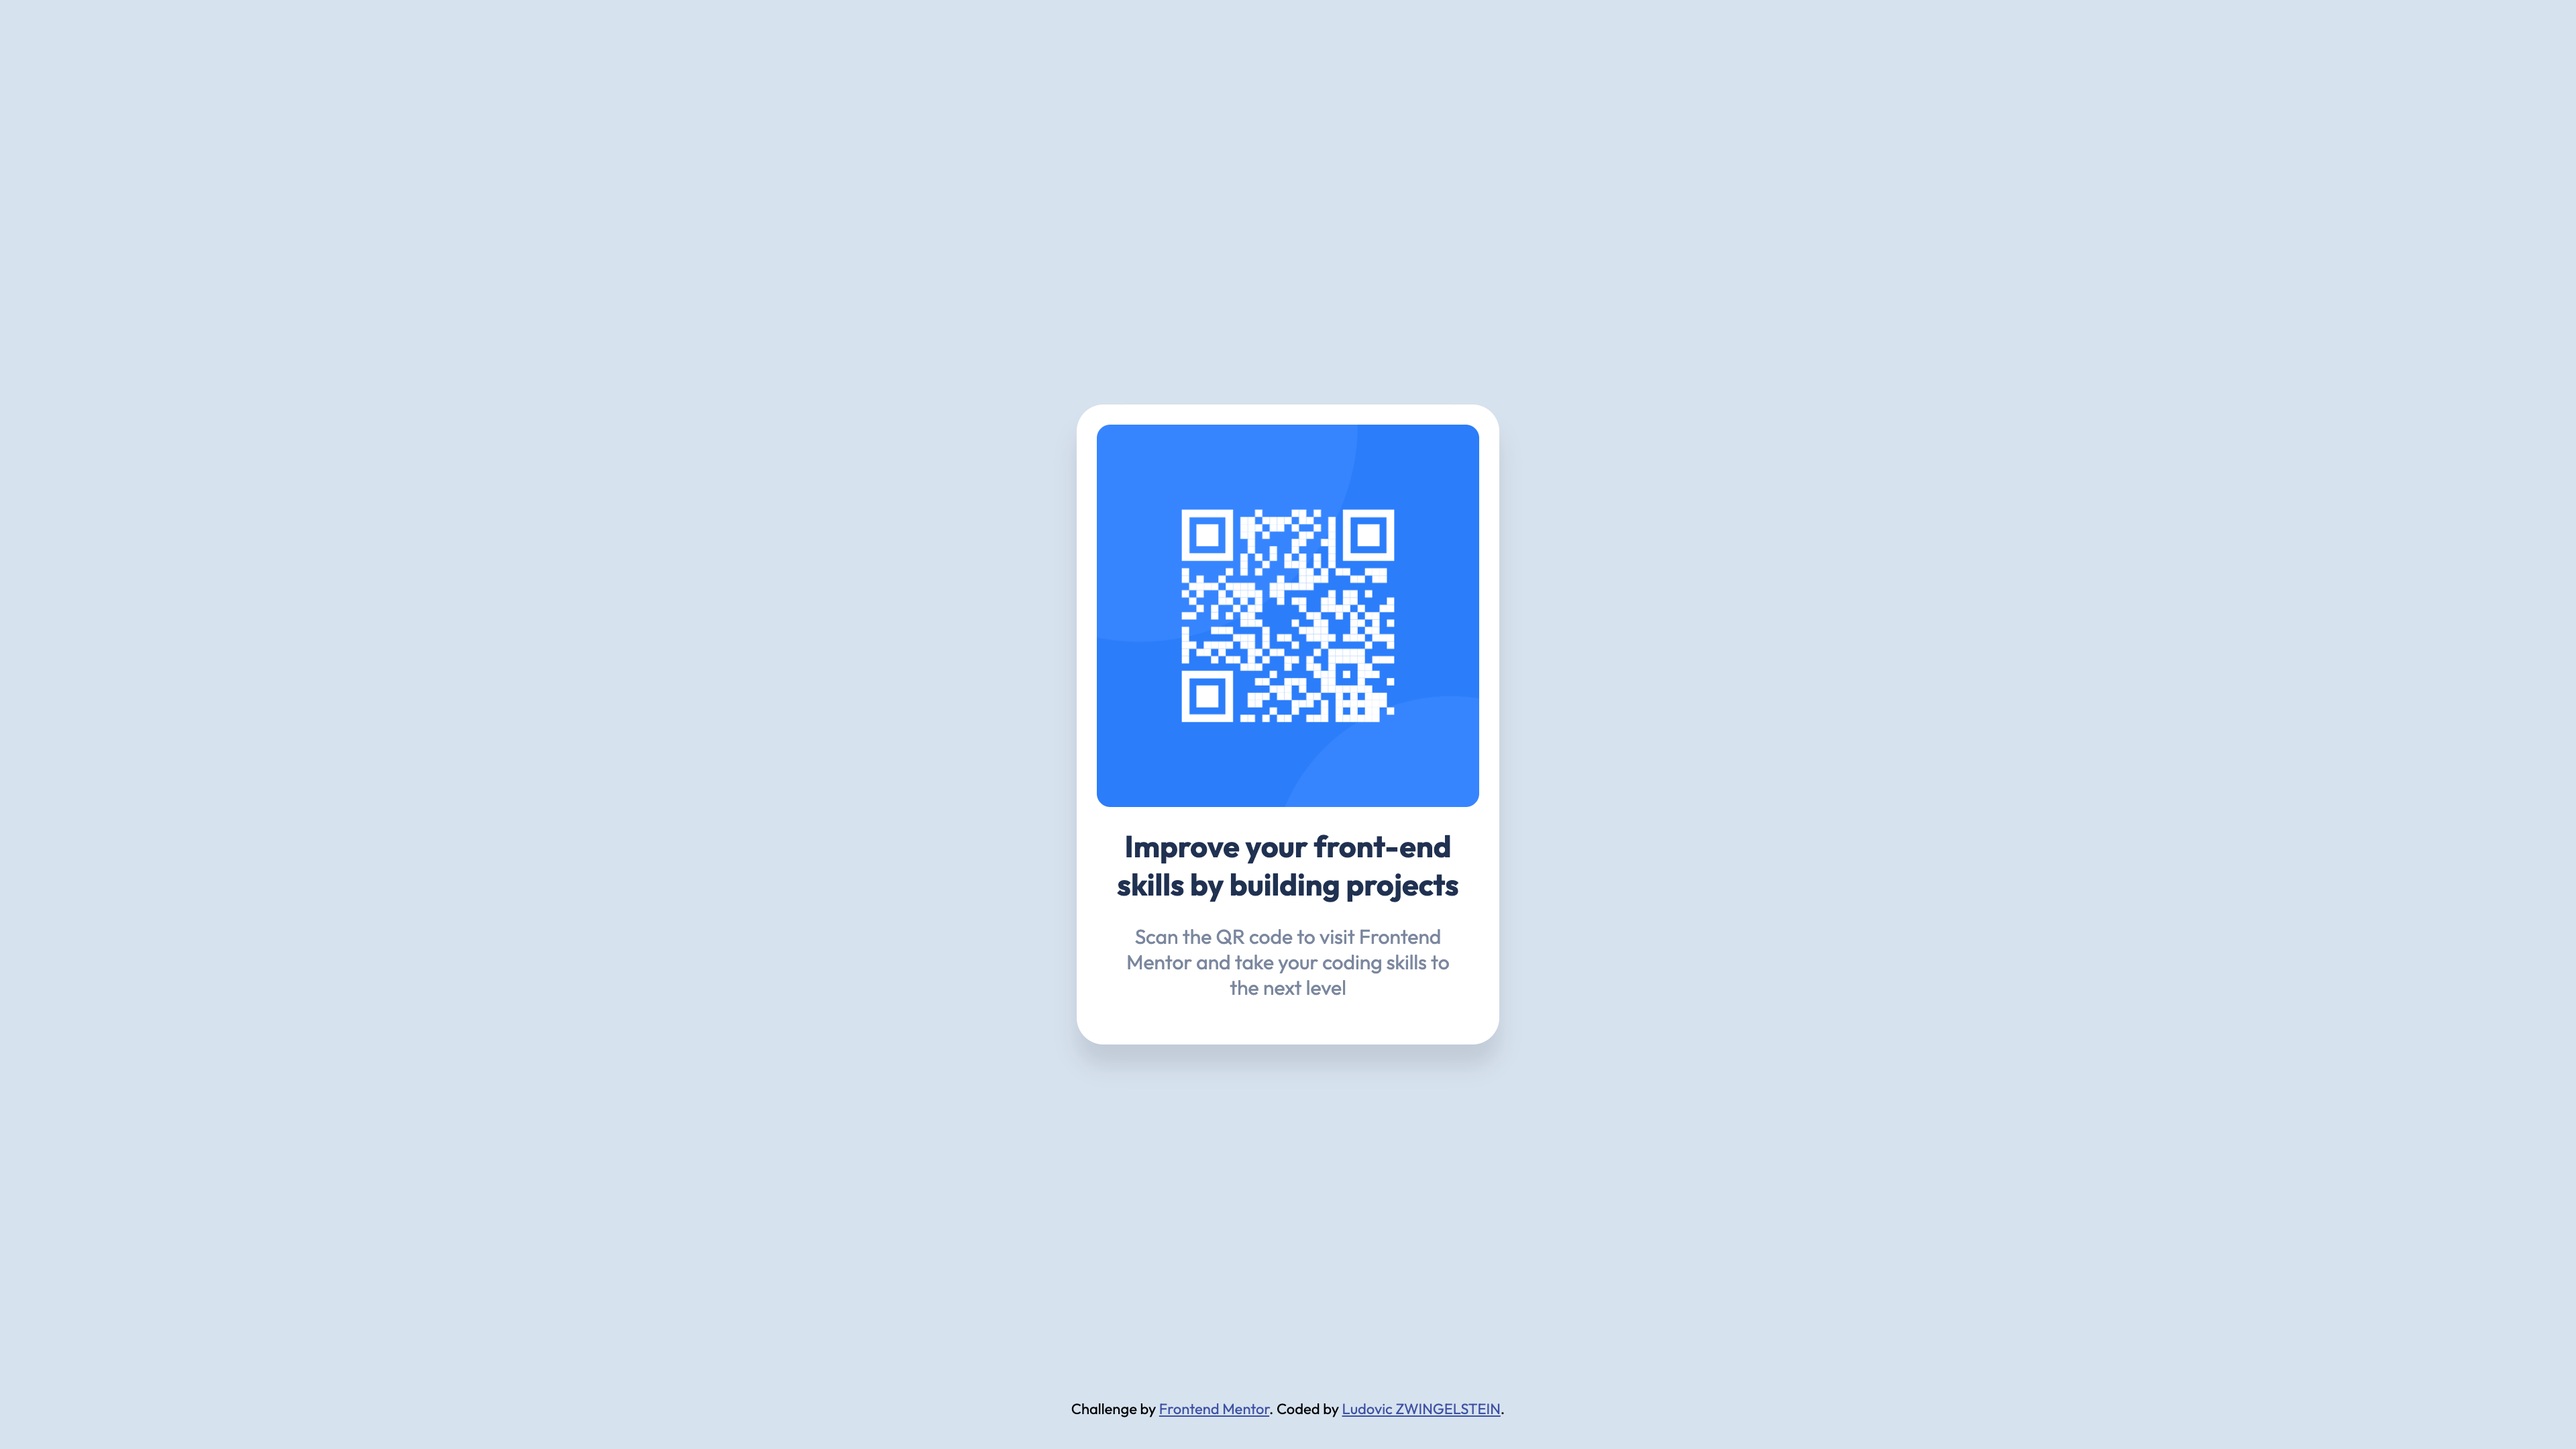
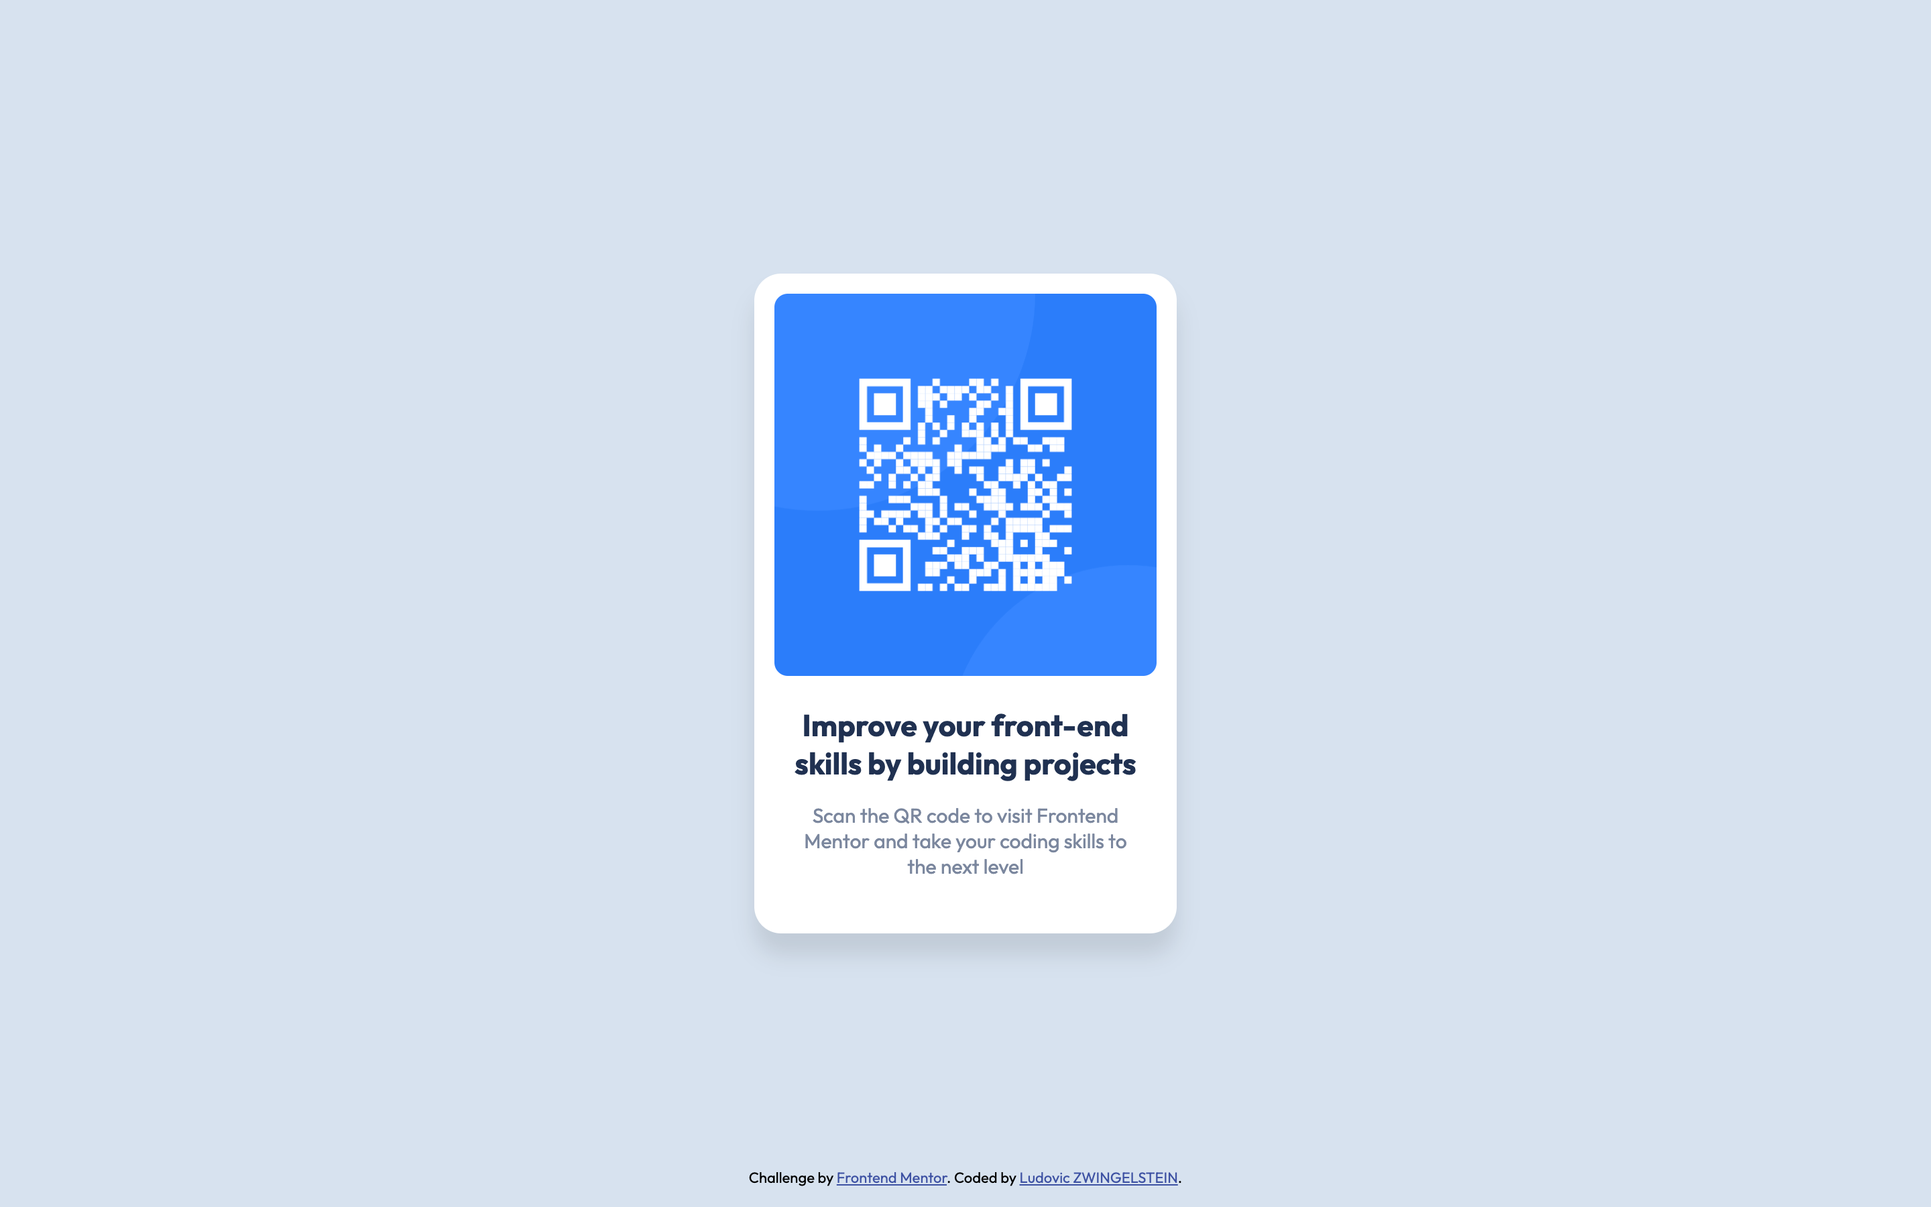
Add card-content

Changed region(s): [[0.375, 0.2178, 0.625, 0.7778], [0.4062, 0.9644, 0.5938, 0.9956]]

diff --git a/index.html b/index.html
@@ -30,10 +30,14 @@
       align-items: center;
       justify-content: center;
       height: 100%;
+      margin: 0;
     }
     img {
       width: 100%;
       border-radius: 10px;
+    }
+    .card-content {
+      margin: 0.5rem 0;
     }
     h1 {
       font-size: 1.5rem;
@@ -74,15 +78,17 @@
 
   <div class="card">
     <img src="images/image-qr-code.png">
-    <h1>Improve your front-end skills by building projects</h1>
-    <p>
-      Scan the QR code to visit Frontend Mentor and take your coding skills to the next level
-    </p>
+    <div class="card-content">
+      <h1>Improve your front-end skills by building projects</h1>
+      <p>
+        Scan the QR code to visit Frontend Mentor and take your coding skills to the next level
+      </p>
+    </div>
   </div>
   
-  <div class="attribution">
+  <footer class="attribution">
     Challenge by <a href="https://www.frontendmentor.io?ref=challenge" target="_blank">Frontend Mentor</a>. 
     Coded by <a href="#">Ludovic ZWINGELSTEIN</a>.
-  </div>
+  </footer>
 </body>
 </html>

diff --git a/README.md b/README.md
@@ -16,10 +16,36 @@ This is a solution to the [QR code component challenge on Frontend Mentor](https
 ## Overview
 
 ### Screenshot
+<style>
+.container {
+  position: relative;
+ 
+  color: hsl(218, 44%, 22%);
+}
+.top-left {
+  position: absolute;
+  top: 8px;
+  left: 16px;
+}
+</style>
+<div class="container">
+  <img src="./design/desktop-design.jpg" alt="desktop-design" width="100%"/>
+  <div class="top-left">Expected Desktop 1440x900px</div>
+</div>
+<div class="container">
+  <img src="./screenshot/desktop-screenshot.png" alt="desktop-screenshot" width="100%"/>
+<div class="top-left">Actual Desktop 1440x900px</div>
+</div>
 
+<div class="container">
+<img src="./design/mobile-design.jpg" alt="mobile" width="30%"/>
+<div class="top-left">Expected Mobile 375x667px</div>
+</div>
 
-<img src="./screenshot/desktop-screenshot.png" alt="desktop" width="600"/>
-<img src="./screenshot/mobile-screenshot.png" alt="mobile" width="200"/>
+<div class="container">
+<img src="./screenshot/mobile-screenshot2.png" alt="mobile" width="30%"/>
+<div class="top-left">Actual Mobile 375x667px</div>
+</div>
 
 
 
